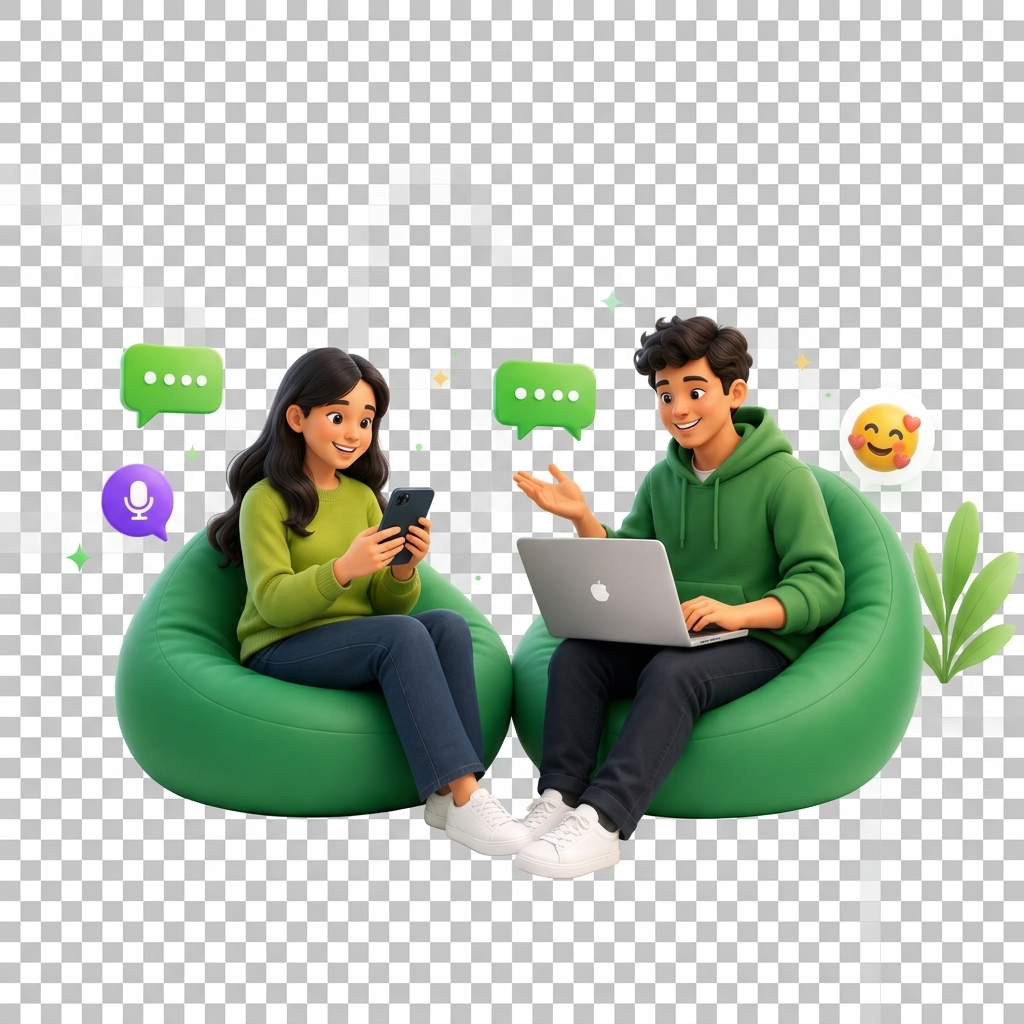
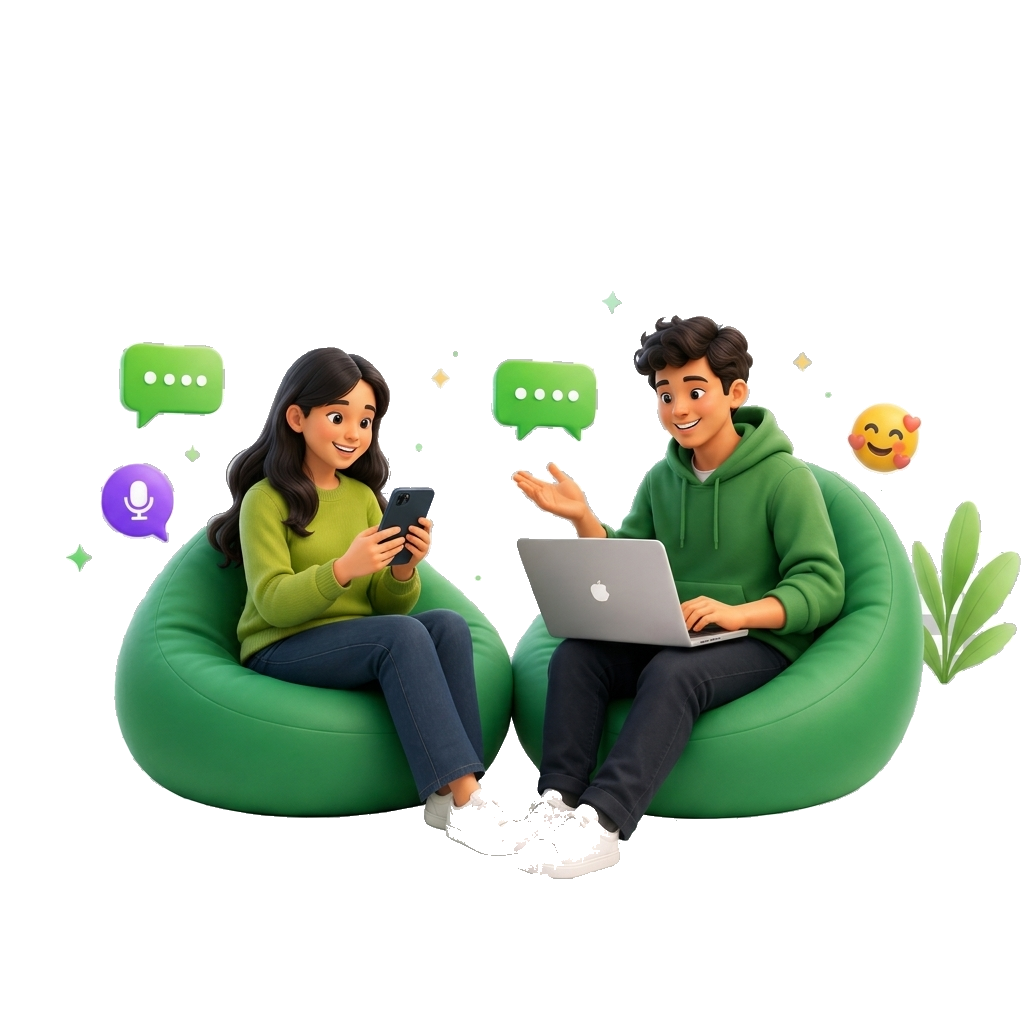
Add files via upload

diff --git a/static/app.js b/static/app.js
@@ -1,11 +1,15 @@
 const myId = 'user_' + Math.random().toString(36).substring(2, 9);
 let selectedMode = 'video'; // 'video' is active by default to match screenshot
+let socket = null;
 let mqttClient = null;
 let peerConnection = null;
 let localStream = null;
 let partnerId = null;
 let isMatched = false;
 let isInitiator = false;
+
+const isLocalhost = window.location.hostname === 'localhost' || window.location.hostname === '127.0.0.1';
+const useWebSocket = isLocalhost;
 
 let searchTimerInterval = null;
 let searchPublishInterval = null;
@@ -83,7 +87,86 @@ function stopSearchTimer() {
     clearInterval(searchTimerInterval);
 }
 
-// Initialize MQTT Client (Serverless matchmaker and signaling broker)
+// Initialize WebSocket connection to local server
+function initWebSocket() {
+    if (socket && (socket.readyState === WebSocket.OPEN || socket.readyState === WebSocket.CONNECTING)) {
+        return;
+    }
+
+    serverStatus.className = 'status-badge';
+    serverStatus.querySelector('.status-text').textContent = 'Connecting...';
+
+    const proto = window.location.protocol === 'https:' ? 'wss:' : 'ws:';
+    socket = new WebSocket(`${proto}//${window.location.host}/ws`);
+
+    socket.onopen = () => {
+        console.log('Connected to WebSocket signaling server.');
+        serverStatus.className = 'status-badge connected';
+        serverStatus.querySelector('.status-text').textContent = 'Connected';
+    };
+
+    socket.onclose = () => {
+        console.log('WebSocket connection closed.');
+        serverStatus.className = 'status-badge disconnected';
+        serverStatus.querySelector('.status-text').textContent = 'Disconnected';
+        if (useWebSocket) {
+            // Reconnect after 2 seconds
+            setTimeout(initWebSocket, 2000);
+        }
+    };
+
+    socket.onerror = (err) => {
+        console.error('WebSocket error:', err);
+        serverStatus.className = 'status-badge disconnected';
+        serverStatus.querySelector('.status-text').textContent = 'Connection Error';
+    };
+
+    socket.onmessage = async (event) => {
+        const msg = JSON.parse(event.data);
+        console.log('Incoming message:', msg.type);
+
+        switch (msg.type) {
+            case 'searching':
+                // Matchmaker is searching
+                break;
+            case 'matched':
+                isMatched = true;
+                isInitiator = msg.initiator;
+                startChatSession();
+                break;
+            case 'offer':
+                if (peerConnection) {
+                    await peerConnection.setRemoteDescription(new RTCSessionDescription(msg.offer));
+                    const answer = await peerConnection.createAnswer();
+                    await peerConnection.setLocalDescription(answer);
+                    sendSignalingMessage({ type: 'answer', answer: answer });
+                }
+                break;
+            case 'answer':
+                if (peerConnection) {
+                    await peerConnection.setRemoteDescription(new RTCSessionDescription(msg.answer));
+                }
+                break;
+            case 'candidate':
+                if (peerConnection && msg.candidate) {
+                    try {
+                        await peerConnection.addIceCandidate(new RTCIceCandidate(msg.candidate));
+                    } catch (e) {
+                        console.error('Error adding Ice Candidate:', e);
+                    }
+                }
+                break;
+            case 'chat_message':
+                appendChatMessage('Stranger', msg.message);
+                break;
+            case 'peer_disconnected':
+                handlePeerDisconnect();
+                break;
+        }
+    };
+}
+
+// Initialize MQTT Client (Serverless matchmaker and signaling broker for GitHub Pages)
 function initMQTT() {
     if (mqttClient && mqttClient.connected) {
         return;
@@ -128,7 +211,7 @@ function initMQTT() {
         
         // Handle incoming messages on our private topic
         if (topic === `bharatbyte/user/${myId}`) {
-            console.log('Incoming signaling message:', msg.type);
+            console.log('Incoming MQTT message:', msg.type);
 
             switch (msg.type) {
                 case 'invite':
@@ -183,7 +266,7 @@ function initMQTT() {
                         try {
                             await peerConnection.addIceCandidate(new RTCIceCandidate(msg.candidate));
                         } catch (e) {
-                            console.error('Error adding received ice candidate:', e);
+                            console.error('Error adding Ice Candidate:', e);
                         }
                     }
                     break;
@@ -220,6 +303,28 @@ function sendDirectMessage(recipient, payload) {
     }
 }
 
+// Initialize active connection based on environment
+function initConnection() {
+    if (useWebSocket) {
+        initWebSocket();
+    } else {
+        initMQTT();
+    }
+}
+
+// Unified signaling message sender
+function sendSignalingMessage(payload) {
+    if (useWebSocket) {
+        if (socket && socket.readyState === WebSocket.OPEN) {
+            socket.send(JSON.stringify(payload));
+        }
+    } else {
+        if (partnerId) {
+            sendDirectMessage(partnerId, payload);
+        }
+    }
+}
+
 // Start capturing local camera & microphone feed
 async function setupLocalStream() {
     if (localStream) {
@@ -241,7 +346,7 @@ async function setupLocalStream() {
 
 // Start matchmaking broadcast
 function startSearch() {
-    initMQTT();
+    initConnection();
 
     // Reset WebRTC match connection state (keep local camera stream)
     cleanupWebRTC();
@@ -273,30 +378,42 @@ function startSearch() {
 
     startSearchTimer();
 
-    // Subscribe to public matchmaking lobby
-    mqttClient.subscribe(`bharatbyte/lobby/${selectedMode}`);
-
-    // Publish our presence every 1.5 seconds to pair with strangers
-    clearInterval(searchPublishInterval);
-    searchPublishInterval = setInterval(() => {
-        if (mqttClient && mqttClient.connected) {
-            mqttClient.publish(`bharatbyte/lobby/${selectedMode}`, JSON.stringify({
-                id: myId,
-                timestamp: Date.now()
-            }));
+    if (useWebSocket) {
+        // Send search command to backend WebSocket
+        if (socket && socket.readyState === WebSocket.OPEN) {
+            sendSignalingMessage({ type: 'search', mode: selectedMode });
+        } else {
+            // Queue it for when connection is established
+            socket.addEventListener('open', () => {
+                sendSignalingMessage({ type: 'search', mode: selectedMode });
+            }, { once: true });
         }
-    }, 1500);
+    } else {
+        // Subscribe to public matchmaking lobby
+        mqttClient.subscribe(`bharatbyte/lobby/${selectedMode}`);
+
+        // Publish our presence every 1.5 seconds to pair with strangers
+        clearInterval(searchPublishInterval);
+        searchPublishInterval = setInterval(() => {
+            if (mqttClient && mqttClient.connected) {
+                mqttClient.publish(`bharatbyte/lobby/${selectedMode}`, JSON.stringify({
+                    id: myId,
+                    timestamp: Date.now()
+                }));
+            }
+        }, 1500);
+    }
 }
 
 // Stop broadcasting search presence
 function stopSearching() {
-    clearInterval(searchPublishInterval);
-    searchPublishInterval = null;
     stopSearchTimer();
-    
-    // Unsubscribe from lobby
-    if (mqttClient) {
-        mqttClient.unsubscribe(`bharatbyte/lobby/${selectedMode}`);
+    if (!useWebSocket) {
+        clearInterval(searchPublishInterval);
+        searchPublishInterval = null;
+        if (mqttClient) {
+            mqttClient.unsubscribe(`bharatbyte/lobby/${selectedMode}`);
+        }
     }
 }
 
@@ -332,12 +449,19 @@ async function setupMediaAndWebRTC() {
 
         // Exchange candidates
         peerConnection.onicecandidate = (event) => {
-            if (event.candidate && partnerId) {
-                sendDirectMessage(partnerId, {
-                    type: 'candidate',
-                    candidate: event.candidate,
-                    from: myId
-                });
+            if (event.candidate) {
+                if (useWebSocket) {
+                    sendSignalingMessage({
+                        type: 'candidate',
+                        candidate: event.candidate
+                    });
+                } else {
+                    sendSignalingMessage({
+                        type: 'candidate',
+                        candidate: event.candidate,
+                        from: myId
+                    });
+                }
             }
         };
 
@@ -364,11 +488,18 @@ async function setupMediaAndWebRTC() {
         if (isInitiator) {
             const offer = await peerConnection.createOffer();
             await peerConnection.setLocalDescription(offer);
-            sendDirectMessage(partnerId, {
-                type: 'offer',
-                offer: offer,
-                from: myId
-            });
+            if (useWebSocket) {
+                sendSignalingMessage({
+                    type: 'offer',
+                    offer: offer
+                });
+            } else {
+                sendSignalingMessage({
+                    type: 'offer',
+                    offer: offer,
+                    from: myId
+                });
+            }
         }
 
     } catch (err) {
@@ -384,7 +515,8 @@ function handlePeerDisconnect() {
     
     // Auto re-search after a brief interval
     setTimeout(() => {
-        if (!isMatched && !searchPublishInterval && viewChat.classList.contains('active')) {
+        const isSearching = useWebSocket ? !isMatched : !searchPublishInterval;
+        if (isSearching && viewChat.classList.contains('active')) {
             appendSystemMessage('Matching you with a new stranger...');
             startSearch();
         }
@@ -393,7 +525,7 @@ function handlePeerDisconnect() {
 
 // Clean up WebRTC peer connection and remote stream
 function cleanupWebRTC() {
-    if (isMatched && partnerId) {
+    if (!useWebSocket && isMatched && partnerId) {
         sendDirectMessage(partnerId, { type: 'disconnect', from: myId });
     }
 
@@ -420,6 +552,9 @@ function cleanupLocalStream() {
 }
 
 function handleDisconnect() {
+    if (useWebSocket) {
+        sendSignalingMessage({ type: 'next' });
+    }
     stopSearching();
     cleanupWebRTC();
     cleanupLocalStream();
@@ -453,6 +588,9 @@ btnCancel.addEventListener('click', () => {
 });
 
 btnNext.addEventListener('click', () => {
+    if (useWebSocket) {
+        sendSignalingMessage({ type: 'next' });
+    }
     cleanupWebRTC();
     appendSystemMessage('Finding a new stranger...');
     startSearch();
@@ -467,12 +605,19 @@ chatForm.addEventListener('submit', (e) => {
     const text = chatInput.value.trim();
     if (!text) return;
 
-    if (isMatched && partnerId) {
-        sendDirectMessage(partnerId, {
-            type: 'chat_message',
-            message: text,
-            from: myId
-        });
+    if (isMatched) {
+        if (useWebSocket) {
+            sendSignalingMessage({
+                type: 'chat_message',
+                message: text
+            });
+        } else {
+            sendSignalingMessage({
+                type: 'chat_message',
+                message: text,
+                from: myId
+            });
+        }
         appendChatMessage('You', text);
         chatInput.value = '';
     } else {
@@ -480,7 +625,7 @@ chatForm.addEventListener('submit', (e) => {
     }
 });
 
-// Initialize MQTT connection on load
+// Initialize connection on load
 window.addEventListener('load', () => {
-    initMQTT();
+    initConnection();
 });

diff --git a/index.html b/index.html
@@ -67,7 +67,7 @@
 
                     <div class="mode-zone">
                         <div class="poster-stage" aria-hidden="true">
-                            <img src="static/hero_poster.png" alt="">
+                            <img src="static/hero_poster.png?v=2" alt="">
                         </div>
                     </div>
                 </div>